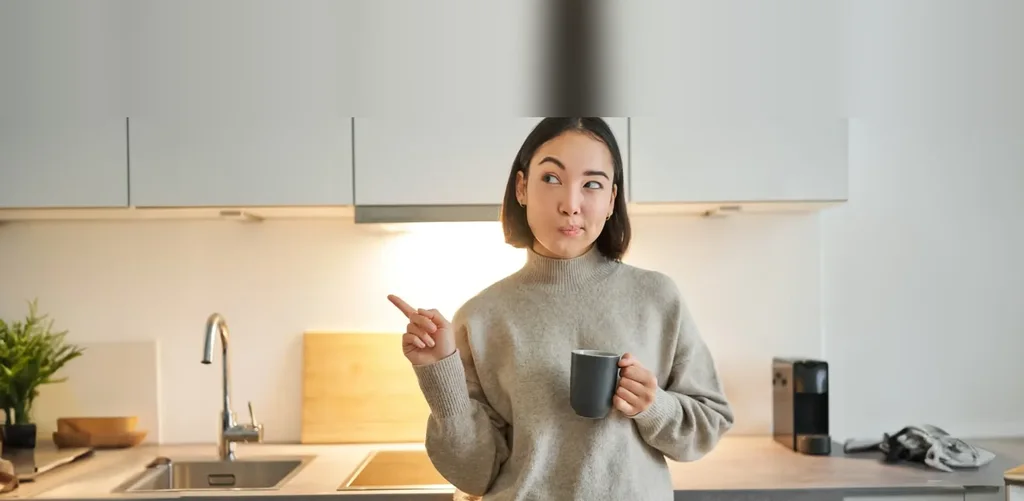
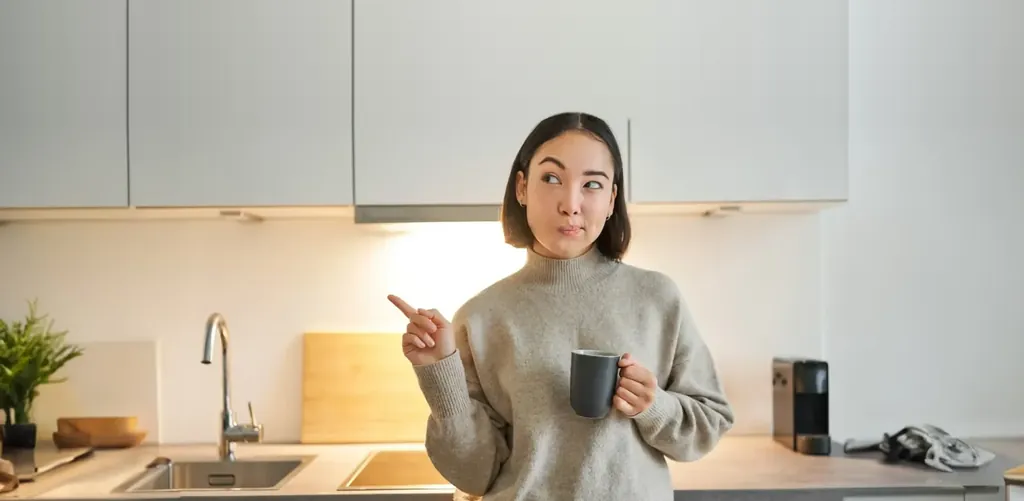
Segmentos: volta imagens de Lazer e Saúde e corrige o hero do Residencial
- Lazer e Saúde: restaura as imagens anteriores à troca do commit f630d78
  (hero, introdução, cartão da vitrine de segmentos e texto alternativo).
  Remove os arquivos -v3 dessas duas páginas, que deixam de ser usados.
  Serviço e Conteúdo seguem com as imagens novas.
- Residencial: a foto do hero tinha a parte de cima "esticada" e o topo da
  cabeça cortado numa emenda horizontal. A imagem foi recomposta: topo do
  cabelo reconstruído e faixa superior refeita com o fundo dos armários,
  sem emenda. Mesmo arquivo, mesmo tamanho e mesmo enquadramento.

Claude-Session: https://claude.ai/code/session_01F9isDSa8UYCTXQegu3FSvm

Changed region(s): [[0.5, 0.0, 0.625, 0.2395]]

diff --git a/src/pages/segmentos/segmento/page.tsx b/src/pages/segmentos/segmento/page.tsx
@@ -66,10 +66,10 @@ const SEGMENT_HERO_MEDIA: Record<string, string> = {
   'bares-e-restaurantes': '/img/pages/segmentos/bares-e-restaurantes-hero.webp',
   condominio: '/img/pages/segmentos/condominio-hero.webp',
   educacional: '/img/pages/segmentos/educacional-hero.webp',
-  lazer: '/img/pages/segmentos/lazer-hero-v3.webp',
+  lazer: '/img/pages/segmentos/lazer-hero.webp',
   religioso: '/img/pages/segmentos/religioso-hero.webp',
   residencial: '/img/pages/segmentos/residencial-hero.webp',
-  saude: '/img/pages/segmentos/saude-hero-v3.webp',
+  saude: '/img/pages/segmentos/saude-hero.webp',
   servico: '/img/pages/segmentos/servico-hero-v3.webp',
   turismo: '/img/pages/segmentos/turismo-hero.webp',
   varejo: '/img/pages/segmentos/varejo-hero.webp'
@@ -96,10 +96,10 @@ const SEGMENT_BANNER_ALT: Record<string, string> = {
   'bares-e-restaurantes': 'Ambiente gastronômico de restaurante e bar atendido pelo Grupo BC Energia',
   condominio: 'Edifícios e condomínios modernos atendidos pelo Grupo BC Energia',
   educacional: 'Campus e instalações de ensino atendidos pelo Grupo BC Energia',
-  lazer: 'Pessoa correndo em estrada ao ar livre com aerogeradores ao fundo',
+  lazer: 'Complexo esportivo e espaço de lazer atendido pelo Grupo BC Energia',
   religioso: 'Templo e instituição religiosa com espaço amplo atendido pelo Grupo BC Energia',
   residencial: 'Residência moderna atendida por energia solar por assinatura do Grupo BC Energia',
-  saude: 'Interior iluminado de farmácia com prateleiras de produtos de saúde',
+  saude: 'Instalações de saúde, clínica e hospital atendidas pelo Grupo BC Energia',
   servico: 'Ambiente corporativo de empresa de serviços atendido pelo Grupo BC Energia',
   turismo: 'Hotelaria, resort e turismo atendidos pelo Grupo BC Energia',
   varejo: 'Operação de varejo e supermercado atendida pelo Grupo BC Energia'

diff --git a/src/pages/segmentos/SegmentsShowcase.tsx b/src/pages/segmentos/SegmentsShowcase.tsx
@@ -11,11 +11,11 @@ export const SEGMENT_IMAGE: Record<string, string> = {
   '/segmentos/condominio': '/img/pages/segmentos/condominio-v2.webp',
   '/segmentos/educacional': '/img/pages/segmentos/educacional.webp',
   '/segmentos/turismo': '/img/pages/segmentos/turismo-intro.webp',
-  '/segmentos/lazer': '/img/pages/segmentos/lazer-v3.webp',
+  '/segmentos/lazer': '/img/pages/segmentos/lazer-v2.webp',
   '/segmentos/religioso': '/img/pages/segmentos/religioso.webp',
   '/segmentos/residencial': '/img/pages/segmentos/residencial.webp',
   // saude-v2 mostrava marca d'água "MOCKUP/LOGO" no jaleco (banco de imagens).
-  '/segmentos/saude': '/img/pages/segmentos/saude-v3.webp',
+  '/segmentos/saude': '/img/pages/segmentos/saude.webp',
   '/segmentos/servico': '/img/pages/segmentos/servico-v3.webp',
   '/segmentos/varejo': '/img/pages/segmentos/varejo-v2.webp'
 }
